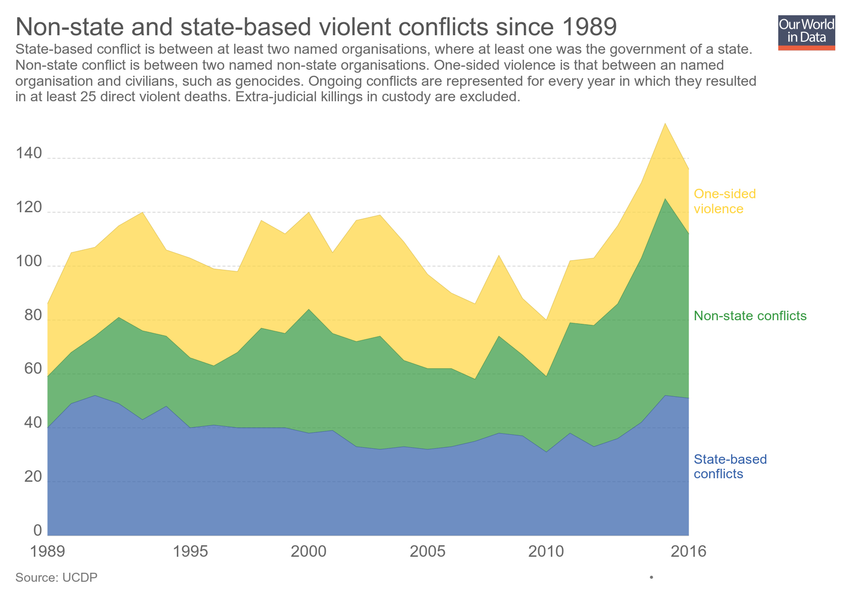
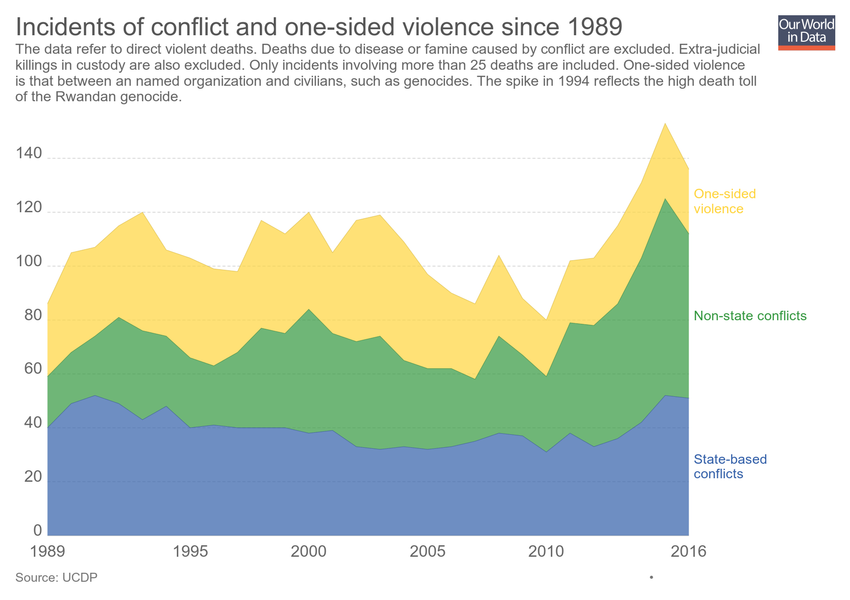
Updating chart non-state-and-state-based-violent-conflicts-since-1989

Changed region(s): [[0.0, 0.03, 0.8871, 0.18]]

diff --git a/grapher/non-state-and-state-based-violent-conflicts-since-1989.html b/grapher/non-state-and-state-based-violent-conflicts-since-1989.html
@@ -1,4 +1,4 @@
-<!doctype html><html><head><meta name="viewport" content="width=device-width, initial-scale=1" /><title>Non-state and state-based violent conflicts since 1989 - Our World in Data</title><meta name="description" content="State-based conflict is between at least two named organisations, where at least one was the government of a state. Non-state conflict is between two named non-state organisations. One-sided violence is that between an named organisation and civilians, such as genocides. Ongoing conflicts are represented for every year in which they resulted in at least 25 direct violent deaths. Extra-judicial killings in custody are excluded." /><link rel="canonical" href="https://ourworldindata.org/grapher/non-state-and-state-based-violent-conflicts-since-1989" /><meta property="fb:app_id" content="1149943818390250" /><meta property="og:url" content="https://ourworldindata.org/grapher/non-state-and-state-based-violent-conflicts-since-1989" /><meta property="og:title" content="Non-state and state-based violent conflicts since 1989" /><meta property="og:description" content="State-based conflict is between at least two named organisations, where at least one was the government of a state. Non-state conflict is between two named non-state organisations. One-sided violence is that between an named organisation and civilians, such as genocides. Ongoing conflicts are represented for every year in which they resulted in at least 25 direct violent deaths. Extra-judicial killings in custody are excluded." /><meta property="og:image" content="https://ourworldindata.org/grapher/exports/non-state-and-state-based-violent-conflicts-since-1989.png?v=1" /><meta property="og:image:width" content="850" /><meta property="og:image:height" content="600" /><meta property="og:site_name" content="Our World in Data" /><meta name="twitter:card" content="summary_large_image" /><meta name="twitter:site" content="@OurWorldInData" /><meta name="twitter:creator" content="@OurWorldInData" /><meta name="twitter:title" content="Non-state and state-based violent conflicts since 1989" /><meta name="twitter:description" content="State-based conflict is between at least two named organisations, where at least one was the government of a state. Non-state conflict is between two named non-state organisations. One-sided violence is that between an named organisation and civilians, such as genocides. Ongoing conflicts are represented for every year in which they resulted in at least 25 direct violent deaths. Extra-judicial killings in custody are excluded." /><meta name="twitter:image" content="https://ourworldindata.org/grapher/exports/non-state-and-state-based-violent-conflicts-since-1989.png?v=1" /><style>
+<!doctype html><html><head><meta name="viewport" content="width=device-width, initial-scale=1" /><title>Incidents of conflict and one-sided violence since 1989 - Our World in Data</title><meta name="description" content="The data refer to direct violent deaths. Deaths due to disease or famine caused by conflict are excluded. Extra-judicial killings in custody are also excluded. Only incidents involving more than 25 deaths are included. One-sided violence is that between an named organization and civilians, such as genocides. The spike in 1994 reflects the high death toll of the Rwandan genocide." /><link rel="canonical" href="https://ourworldindata.org/grapher/non-state-and-state-based-violent-conflicts-since-1989" /><meta property="fb:app_id" content="1149943818390250" /><meta property="og:url" content="https://ourworldindata.org/grapher/non-state-and-state-based-violent-conflicts-since-1989" /><meta property="og:title" content="Incidents of conflict and one-sided violence since 1989" /><meta property="og:description" content="The data refer to direct violent deaths. Deaths due to disease or famine caused by conflict are excluded. Extra-judicial killings in custody are also excluded. Only incidents involving more than 25 deaths are included. One-sided violence is that between an named organization and civilians, such as genocides. The spike in 1994 reflects the high death toll of the Rwandan genocide." /><meta property="og:image" content="https://ourworldindata.org/grapher/exports/non-state-and-state-based-violent-conflicts-since-1989.png?v=2" /><meta property="og:image:width" content="850" /><meta property="og:image:height" content="600" /><meta property="og:site_name" content="Our World in Data" /><meta name="twitter:card" content="summary_large_image" /><meta name="twitter:site" content="@OurWorldInData" /><meta name="twitter:creator" content="@OurWorldInData" /><meta name="twitter:title" content="Incidents of conflict and one-sided violence since 1989" /><meta name="twitter:description" content="The data refer to direct violent deaths. Deaths due to disease or famine caused by conflict are excluded. Extra-judicial killings in custody are also excluded. Only incidents involving more than 25 deaths are included. One-sided violence is that between an named organization and civilians, such as genocides. The spike in 1994 reflects the high death toll of the Rwandan genocide." /><meta name="twitter:image" content="https://ourworldindata.org/grapher/exports/non-state-and-state-based-violent-conflicts-since-1989.png?v=2" /><style>
         html, body {
             height: 100%;
             margin: 0;
@@ -20,8 +20,8 @@
         }
     </style><noscript><style>
                     figure { display: none !important; }
-                </style></noscript><link rel="stylesheet" href="https://ourworldindata.org/grapher/assets/commons.bundle.62f8703dfc964fd3975c.css" /><link rel="preload" href="/grapher/data/variables/97374.json?v=1" as="fetch" crossorigin /></head><body class="singleChart"><figure data-grapher-src="/grapher/non-state-and-state-based-violent-conflicts-since-1989"></figure><noscript id="fallback"><img src="/grapher/exports/non-state-and-state-based-violent-conflicts-since-1989.svg" /><p>Interactive visualization requires JavaScript</p></noscript><script src="https://cdn.polyfill.io/v2/polyfill.min.js?features=es6,fetch"></script><script src="https://ourworldindata.org/grapher/assets/commons.bundle.62f8703dfc964fd3975c.js"></script><script src="https://ourworldindata.org/grapher/assets/charts.bundle.dcf65b68eddaba4c6a58.js"></script><script>
-        var jsonConfig = {"map":{"projection":"World","colorSchemeLabels":[],"colorSchemeValues":[],"colorSchemeMinValue":0,"customNumericColors":[],"customCategoryColors":{},"customCategoryLabels":{},"customHiddenCategories":{}},"tab":"chart","slug":"non-state-and-state-based-violent-conflicts-since-1989","type":"StackedArea","title":"Non-state and state-based violent conflicts since 1989","xAxis":{"scaleType":"linear"},"yAxis":{"min":0,"scaleType":"linear"},"minTime":1989,"version":1,"subtitle":"State-based conflict is between at least two named organisations, where at least one was the government of a state. Non-state conflict is between two named non-state organisations. One-sided violence is that between an named organisation and civilians, such as genocides. Ongoing conflicts are represented for every year in which they resulted in at least 25 direct violent deaths. Extra-judicial killings in custody are excluded.","hasMapTab":false,"stackMode":"absolute","dimensions":[{"display":{},"property":"y","variableId":97374}],"isAutoSlug":true,"hasChartTab":true,"isPublished":true,"selectedData":[{"index":0,"entityId":37488},{"index":0,"entityId":37496},{"index":0,"entityId":37498}],"addCountryMode":"disabled","id":2587};
+                </style></noscript><link rel="stylesheet" href="https://ourworldindata.org/grapher/assets/commons.bundle.62f8703dfc964fd3975c.css" /><link rel="preload" href="/grapher/data/variables/97374.json?v=2" as="fetch" crossorigin /></head><body class="singleChart"><figure data-grapher-src="/grapher/non-state-and-state-based-violent-conflicts-since-1989"></figure><noscript id="fallback"><img src="/grapher/exports/non-state-and-state-based-violent-conflicts-since-1989.svg" /><p>Interactive visualization requires JavaScript</p></noscript><script src="https://cdn.polyfill.io/v2/polyfill.min.js?features=es6,fetch"></script><script src="https://ourworldindata.org/grapher/assets/commons.bundle.62f8703dfc964fd3975c.js"></script><script src="https://ourworldindata.org/grapher/assets/charts.bundle.dcf65b68eddaba4c6a58.js"></script><script>
+        var jsonConfig = {"id":2587,"map":{"projection":"World","colorSchemeLabels":[],"colorSchemeValues":[],"colorSchemeMinValue":0,"customNumericColors":[],"customCategoryColors":{},"customCategoryLabels":{},"customHiddenCategories":{}},"tab":"chart","slug":"non-state-and-state-based-violent-conflicts-since-1989","type":"StackedArea","title":"Incidents of conflict and one-sided violence since 1989","xAxis":{"scaleType":"linear"},"yAxis":{"min":0,"scaleType":"linear"},"minTime":1989,"version":2,"subtitle":"The data refer to direct violent deaths. Deaths due to disease or famine caused by conflict are excluded. Extra-judicial killings in custody are also excluded. Only incidents involving more than 25 deaths are included. One-sided violence is that between an named organization and civilians, such as genocides. The spike in 1994 reflects the high death toll of the Rwandan genocide.","hasMapTab":false,"stackMode":"absolute","dimensions":[{"display":{},"property":"y","variableId":97374}],"hasChartTab":true,"isPublished":true,"selectedData":[{"index":0,"entityId":37488},{"index":0,"entityId":37496},{"index":0,"entityId":37498}],"addCountryMode":"disabled"};
         var figure = document.getElementsByTagName("figure")[0];
         try {
             window.App = {};
